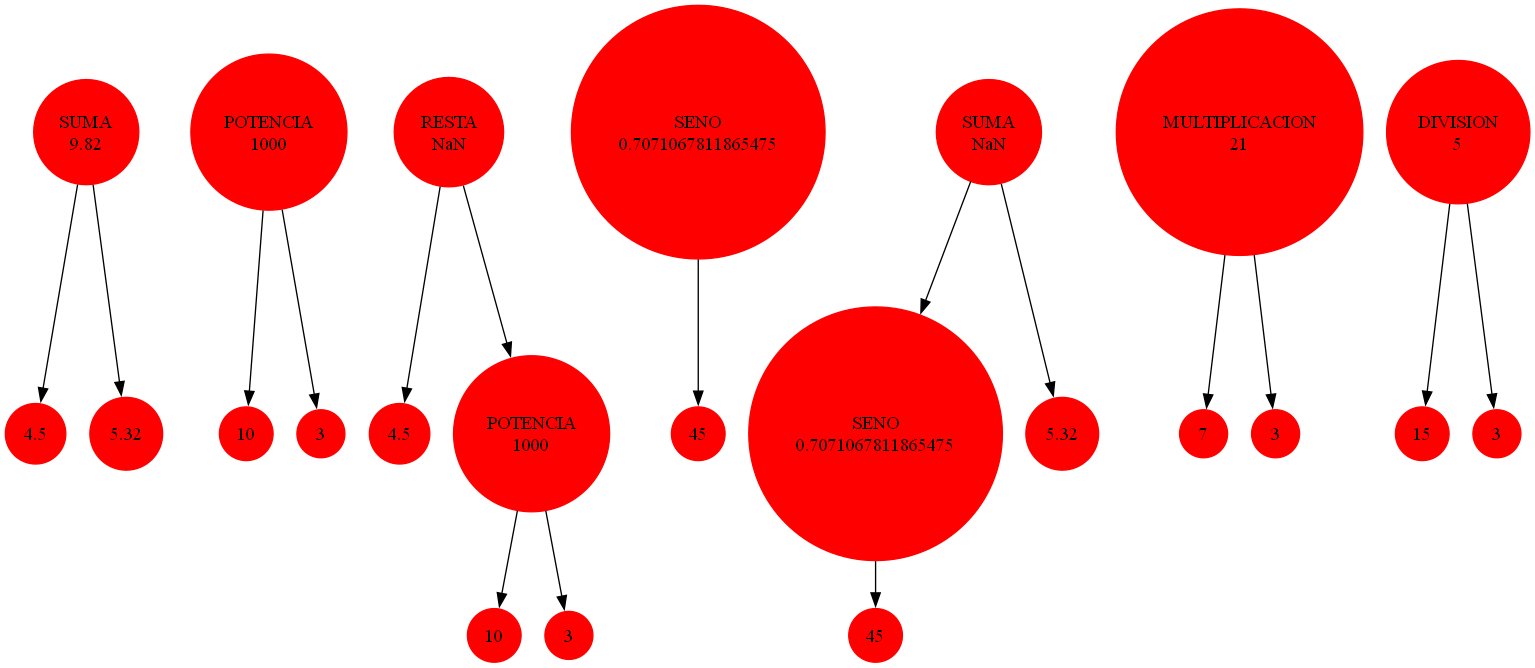
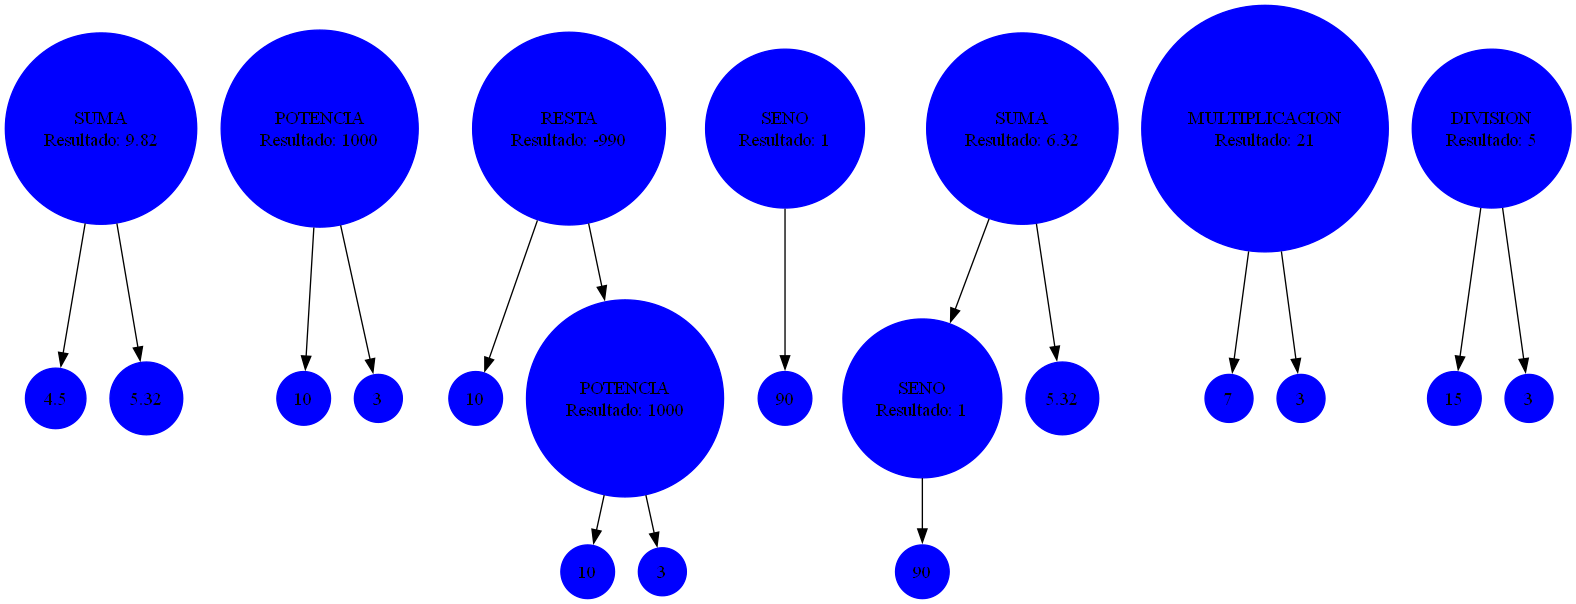
Segundo Commit
Se agregaron los manuales

diff --git a/index.js b/index.js
@@ -3,16 +3,14 @@ const fs = require('fs');
 const path = require('path');
 const { log } = require('console');
 const { exec } = require('child_process');
-const { graph } = require('graphviz');
 // variables globales 
 const errores = [];
 let numeroError = 1; // inicializar el contador de errores
-
 let contenidoArchivo = ''; // Guarda el contenido del archivo, para usarlo despues :p
 
 const rl = readline.createInterface({
-    input: process.stdin,
-    output: process.stdout
+    input: process.stdin, // Es para leer la entrada del usuario
+    output: process.stdout // Es para mostrar la salida en consola
 });
 
 function mostrarMenu() {
@@ -328,10 +326,10 @@ function generarDiagrama() {
         }
 
         // Configuración para estilos desde el JSON
-        const coloresPermitidos = { 
-            rojo: 'red', 
-            azul: 'blue', 
-            negro: 'black' 
+        const coloresPermitidos = {
+            rojo: 'red',
+            azul: 'blue',
+            negro: 'black'
         };
         const config = data.configuraciones ? data.configuraciones[0] : {};
         const fondo = coloresPermitidos[config.fondo.toLowerCase()] || 'red';
@@ -348,24 +346,24 @@ function generarDiagrama() {
         function procesarOperacion(operacion, parentNode = null) {
             if (!operacion.operacion) {
                 console.log('Operación no válida encontrada:', operacion);
-                return;
+                return null;
             }
 
-            // funcion para calcular los resultados 
-            function calcularResultados(op, valor1, valor2){
-                switch(op.toLowerCase()){
+            // Función para calcular los resultados
+            function calcularResultados(op, valor1, valor2) {
+                switch (op.toLowerCase()) {
                     case 'suma':
-                        return valor1 + valor2;
+                        return valor1 + (valor2 || 0);
                     case 'resta':
-                        return valor1 - valor2;
+                        return valor1 - (valor2 || 0);
                     case 'multiplicacion':
-                        return valor1 * valor2;
+                        return valor1 * (valor2 || 1);
                     case 'division':
                         return valor2 !== 0 ? valor1 / valor2 : "infinito";
                     case 'potencia':
-                        return Math.pow(valor1, valor2);
+                        return Math.pow(valor1, valor2 || 1);
                     case 'raiz':
-                        return Math.pow(valor1, 1 / valor2);
+                        return Math.pow(valor1, 1 / valor2 || 1);
                     case 'inverso':
                         return valor1 !== 0 ? 1 / valor1 : "infinito";
                     case 'seno':
@@ -381,52 +379,58 @@ function generarDiagrama() {
                 }
             }
 
-            function obtenerValor(valor){
-                if (typeof valor === 'object' && !Array.isArray(valor)){
+            function obtenerValor(valor) {
+                if (typeof valor === 'object' && !Array.isArray(valor)) {
                     return procesarOperacion(valor);
-                }else if (Array.isArray(valor)){
-                    return valor.map(obtenerValor).reduce((a,b) => a + b, 0);
-                }else{
+                } else if (Array.isArray(valor)) {
+                    return valor
+                        .map(obtenerValor)
+                        .reduce((a, b) => a + b, 0);
+                } else {
                     return valor;
                 }
             }
 
             const valor1 = obtenerValor(operacion.valor1);
             const valor2 = operacion.valor2 !== undefined ? obtenerValor(operacion.valor2) : null;
+
             const resultado = calcularResultados(operacion.operacion, valor1, valor2);
 
+            if (resultado === null) {
+                console.log("Operación no soportada:", operacion.operacion);
+            }
 
             const currentId = `node${nodeId++}`;
-            const label = operacion.operacion.toUpperCase();
+            const label = `${operacion.operacion.toUpperCase()}\\nResultado: ${resultado}`;
             graphContent += `${currentId} [label="${label}"];\n`;
 
-            // Conectar el nodo actual al nodo padre si aplica
             if (parentNode) {
                 graphContent += `${parentNode} -> ${currentId};\n`;
             }
 
-            function procesarValor(valor, parentId) {
-                if (typeof valor === 'object' && !Array.isArray(valor)) {
-                    procesarOperacion(valor, parentId);
-                } else if (Array.isArray(valor)) {
-                    valor.forEach((item) => procesarValor(item, parentId));
-                } else {
-                    const valueId = `node${nodeId++}`;
-                    const label = `${operacion.operacion.toUpperCase()}\\n${resultado}`
-                    graphContent += `${currentId} [label="${label}"];\n`;
-                    graphContent += `${valueId} [label="${valor}"];\n`;
-                    graphContent += `${parentId} -> ${valueId};\n`;
-                }
-            }
-
-            // Procesar valor1
+            // Procesar valores recursivamente
             if (operacion.valor1 !== undefined) {
                 procesarValor(operacion.valor1, currentId);
             }
 
-            // Procesar valor2 si existe
             if (operacion.valor2 !== undefined) {
                 procesarValor(operacion.valor2, currentId);
+            }
+
+            return resultado;
+        }
+
+        function procesarValor(valor, parentId) {
+            if (typeof valor === 'object' && !Array.isArray(valor)) {
+                procesarOperacion(valor, parentId);
+            } else if (Array.isArray(valor)) {
+                valor.forEach((item) => procesarValor(item, parentId));
+            } else {
+                const valueId = `node${nodeId++}`;
+                graphContent += `${valueId} [label="${valor}"];\n`;
+                if (parentId) {
+                    graphContent += `${parentId} -> ${valueId};\n`;
+                }
             }
         }
 
@@ -452,13 +456,15 @@ function generarDiagrama() {
             }
             console.log('Diagrama generado exitosamente en "operaciones.png".');
         });
-        
 
     } catch (err) {
         console.log('Error al generar el diagrama. Verifica que el archivo sea un JSON válido.');
         console.log(`Detalles del error: ${err.message}`);
     }
-}
+} // fin de la funcion generarDiagrama
+
+//************************************************************* tabla de tokens *************************************** */
+
 
     class Token {
         constructor(token, lexema, linea, columna) {

diff --git a/README.md b/README.md
@@ -1,2 +1,133 @@
-# LFP_VD_2024_PROYECTO1_202001816
-Analizador Léxico con Javascript y node js 
+# NodeLex: Escaner Léxico y Procesador Numerico con Node.js 
+## MANUAL DE USUARIO 
+ A continuación, se detalla el uso y las tecnologías empleadas en la implementación de este proyecto. Este documento tiene como objetivo proporcionar una guía clara y precisa para la operación del sistema.
+ ## Tecnologias Utilizadas
+## Node.js 
+Node.js es un entorno de ejecución usado para ejecutar código JavaScript en los servidores. Permite ejecutar JavaScript sin necesidad de un navegador web. Node.js es compatible con sistemas operativos como Windows, macOS y Linux. Es una plataforma de código abierto, por lo que todos los usuarios pueden acceder al código fuente de forma gratuita.
+### INSTRUCCIONES DE USO 
+para poner en funcionamiento el programa, siga las siguientes instrucciones: 
+* #### Ejecución del programa
+* 1.  Navegue a la carpeta raiz del proyecto.
+* 2. Ejecute el siguiente codigo a la terminal:
+* #### npm run start 
+### FLUJO DEL PROGRAMA 
+Al ejecutar el programa se desplejará un menú de opciones. 
+![menu](/capturas/menu.jpg)
+### Opcion 1 
+Al seleccionar esta opción, se desplegará un submenú con las siguientes opciones:
+![submenucargar](/capturas/CargaArchivo%20.jpg)
+Se solicitará al usuario ingresar la ruta del archivo de entrada con extensión .json.
+![ruta](/capturas/CargaExitosa.jpg)
+Si la carga del archivo es exitosa, se mostrará un mensaje de confirmación.
+### Opcion 2
+Esta opción requiere que el archivo de entrada haya sido cargado previamente. El programa procederá a realizar un análisis léxico, generando una tabla de tokens:
+![Tokens](/capturas/Analizar.jpg)
+### Opcion 3
+Seleccionando esta opción, el programa generará un archivo JSON que listará los errores léxicos identificados en el archivo de entrada. Una vez completada esta operación, se mostrará un mensaje de éxito en la consola:
+![Errores](/capturas/GenerarArchivo.jpg)
+### Opcion 4 
+Al seleccionar esta opción, se desplegará un submenú con las siguientes funcionalidades:
+![reportes](/capturas/Reportes.jpg)
+* Opcion 1: Generar un diagrama que represente las operaciones encontradas en el archivo de entrada.
+
+* Opcion 2: Crear un archivo HTML con la tabla de tokens identificados.
+
+* Opcion 3: Producir un archivo HTML que contenga la tabla de errores léxicos encontrados.
+
+* Opcion 4: Regresar al menú principal. 
+### Salir 
+![salir](/capturas/Salir.jpg)
+Para finalizar la ejecución del programa, seleccione la opción 5 del menú principal:
+# MANUAL TÉCNICO
+Este manual describe el funcionamiento técnico del programa desarrollado en Node.js. El código implementa un sistema de análisis léxico, validación de datos JSON y generación de reportes con diagramas y tablas.
+## Requerimiento Previos 
+1. #### Node.js: version 14 o superior. 
+2. #### Modulos Nativos de Node.js
+* readline: Para la interacción por consola.
+
+* fs: Para la manipulación de archivos.
+
+* path: Para el manejo de rutas.
+
+* child_process: Para la ejecución de comandos del sistema.
+3. Dependencias Adicionales:
+
+* graphviz: Utilizado para la generación de diagramas a partir de archivos DOT.
+## Estructura del Codigo
+![globales](/capturas/varaiablesGlobales.jpg)
+* errores: Arreglo que almacena los errores detectados durante el análisis.
+
+* numeroError: Contador para enumerar los errores léxicos.
+
+* contenidoArchivo: Variable que guarda el contenido del archivo JSON cargado.
+### Interaccion con el Usuario
+![menu](/capturas/MostrarMenu.jpg)
+* mostrarMenu: Muestra las opciones disponibles al usuario.
+
+* manejarOpciones: Procesa la selección del usuario y llama a la función correspondiente.
+![preguntar](/capturas/Preguntar.jpg)
+preguntarOpcion: Solicita al usuario una opción y la procesa.
+### Analisis del Archivo
+![analisis](/capturas/FuncionAnalizar.jpg)
+* Función Principal: analizarArchivo.
+
+### Proceso:
+
+* Parsea el contenido JSON utilizando JSON.parse.
+
+* Utiliza una función recursiva recorrerJSON para identificar tokens.
+
+* Clasifica elementos JSON en tipos como llaves, arreglos, números y cadenas.
+
+* Muestra los tokens identificados en una tabla.
+### Generación de Archivo de Errores
+![error](/capturas/GenerarErrorLex.jpg)
+* Función Principal: generarErrorLex.
+
+* Validaciones Implementadas:
+
+* Verifica la existencia y estructura de la clave operaciones.
+
+* Comprueba que los valores sean numéricos o estructuras JSON válidas.
+
+* Genera descripciones detalladas de los errores y los almacena en el archivo errores.json.
+### Reportes
+![Diagrama](/capturas/GenerarDiagrama.jpg)
+* La función generarDiagrama genera un grafo DOT con las operaciones encontradas en el JSON.
+
+* Se utiliza child_process para ejecutar Graphviz y generar una imagen PNG del diagrama.
+### Configuracion Visual de Diagrama
+* Personalizable a través de las claves configuraciones en el JSON cargado.
+
+Opciones Disponibles:
+
+fondo: Color de fondo de los nodos (rojo, azul, negro).
+
+fuente: Color del texto dentro de los nodos.
+
+forma: Forma de los nodos (círculo, diamante, cuadrado).
+# REQUERIMIENTOS DEL SISTEMA
+El programa realizado en Visual Studio Code, funciona con el sistema operativo Windows, desde la version 7 en adelante, requiere no mas de 1 GB de ram y procesador desde core i3. 
+### Requisitos Míminos
+* Contar con Node.js instalado en el sistema operativo, version 14 o superior. 
+* Sistema Operativo Windows o Linux. 
+* Procesador: Intel core Celeron. 
+* Memoria RAM: 1GB. 
+* Resolucion de pantalla: 1280x720 pixeles
+### Expresion regular asociada 
+\{
+\s*"operaciones"\s*:\s*\[
+\s*(\{
+\s*"operacion"\s*:\s*"([a-zA-Z]+)"\s*,\s*"valor1"\s*:\s*([\d.]+|\[[^\]]+\])\s*,\s*"valor2"\s*:\s*([\d.]+|\[[^\]]+\])\s*\}\s*,\s*)*(\{
+\s*"operacion"\s*:\s*"([a-zA-Z]+)"\s*,\s*"valor1"\s*:\s*([\d.]+|\[[^\]]+\])\s*,\s*"valor2"\s*:\s*([\d.]+|\[[^\]]+\])\s*\}\s*\]\s*,\s*"configuraciones"\s*:\s*\[
+\s*(\{
+\s*"texto"\s*:\s*"([a-zA-Z]+)"\s*,\s*"fondo"\s*:\s*"([a-zA-Z]+)"\s*,\s*"fuente"\s*:\s*"([a-zA-Z]+)"\s*,\s*"forma"\s*:\s*"([a-zA-Z]+)"\s*\}\s*\]
+\}
+### Metodo del Arbol 
+![arbol](/capturas/ArbolER.jpg)
+### AFD
+![AFD](/capturas/AFD.png)
+
+
+
+    
